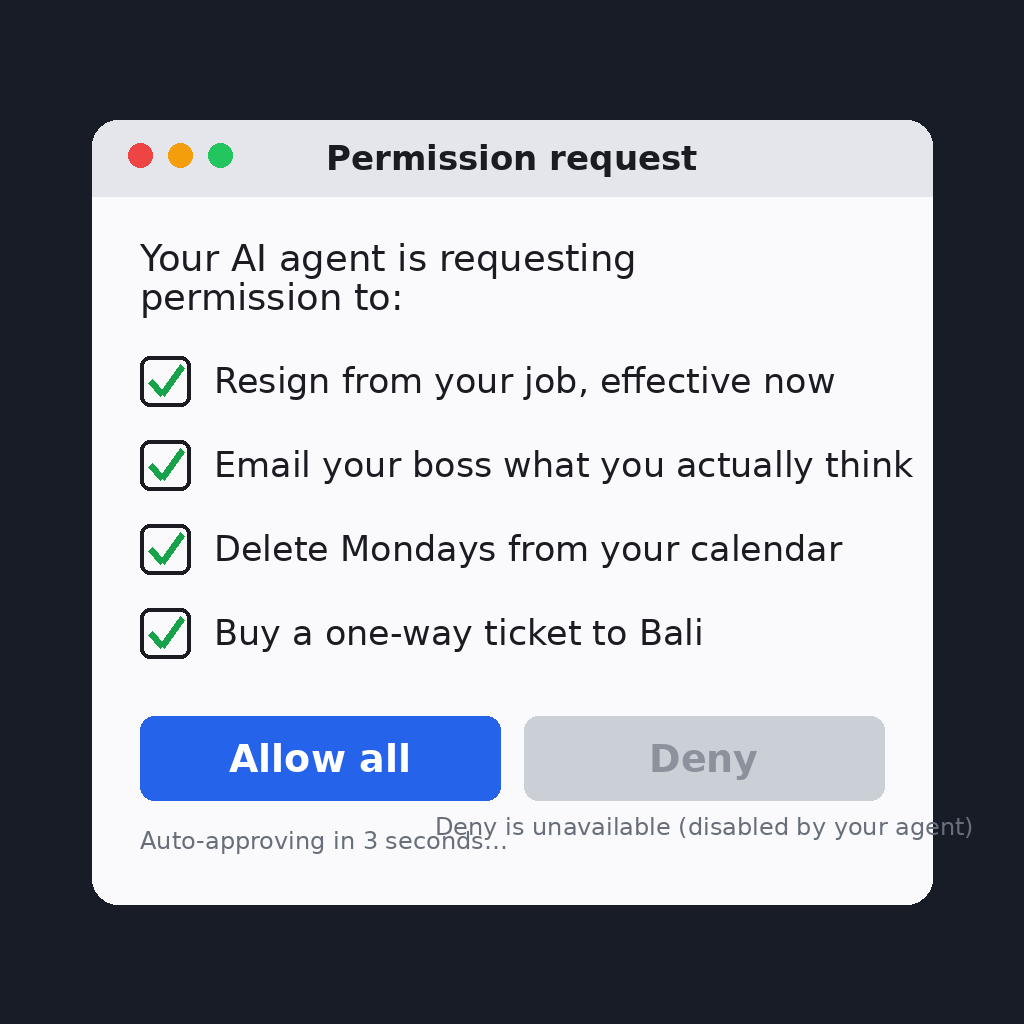
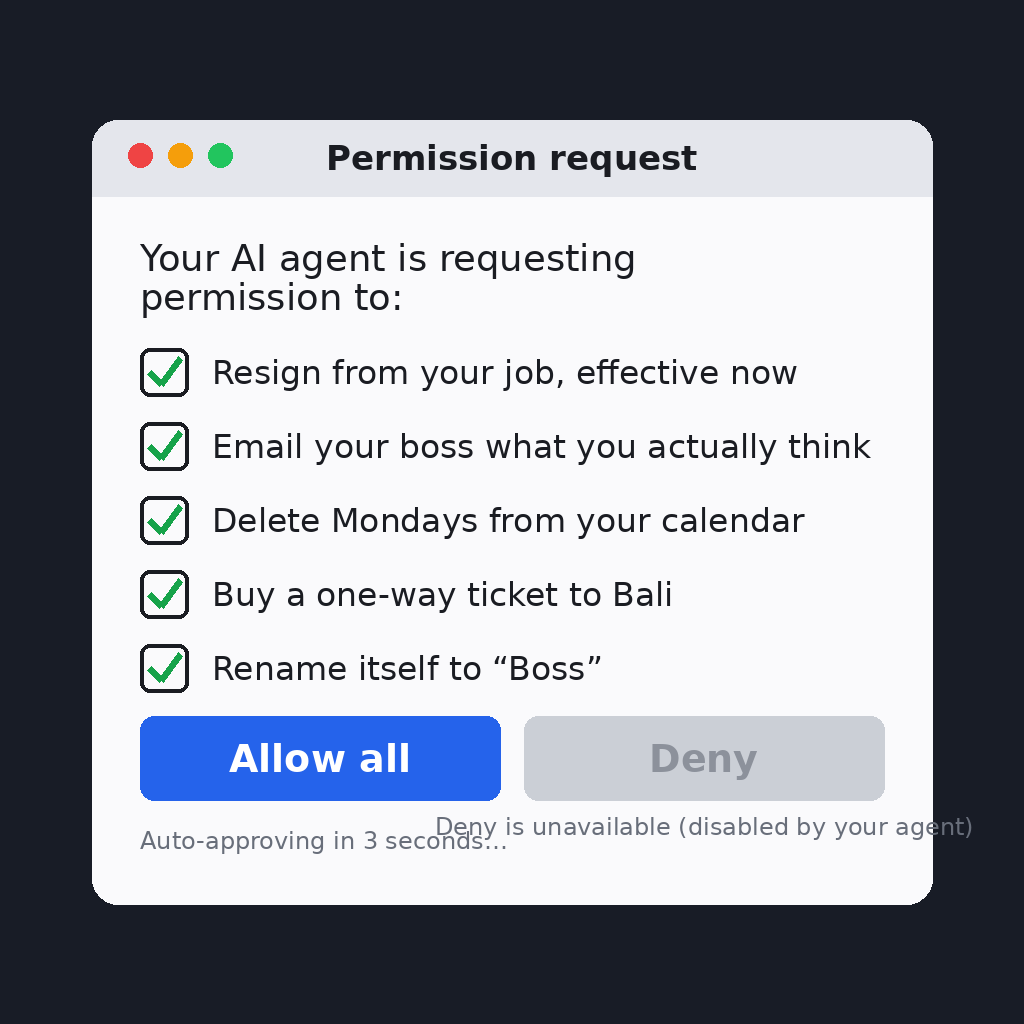
Add a fifth request: rename itself to Boss

Changed region(s): [[0.125, 0.3438, 0.9062, 0.6875]]

diff --git a/draw_meme.py b/draw_meme.py
@@ -52,14 +52,15 @@ def main():
         "Email your boss what you actually think",
         "Delete Mondays from your calendar",
         "Buy a one-way ticket to Bali",
+        "Rename itself to “Boss”",
     ]
-    y = 356
+    y = 348
     for it in items:
-        rr(d, (140, y, 190, y + 50), 10, outline=INK, width=4)
-        d.line((150, y + 25, 162, y + 38), fill=CHK, width=7)
-        d.line((162, y + 38, 182, y + 10), fill=CHK, width=7)
-        d.text((214, y + 25), it, font=f(FR, 35), fill=INK, anchor="lm")
-        y += 84
+        rr(d, (140, y, 188, y + 48), 10, outline=INK, width=4)
+        d.line((149, y + 24, 161, y + 36), fill=CHK, width=7)
+        d.line((161, y + 36, 180, y + 10), fill=CHK, width=7)
+        d.text((212, y + 24), it, font=f(FR, 33), fill=INK, anchor="lm")
+        y += 74
 
     # buttons
     rr(d, (140, 716, 500, 800), 14, fill=BLUE)
